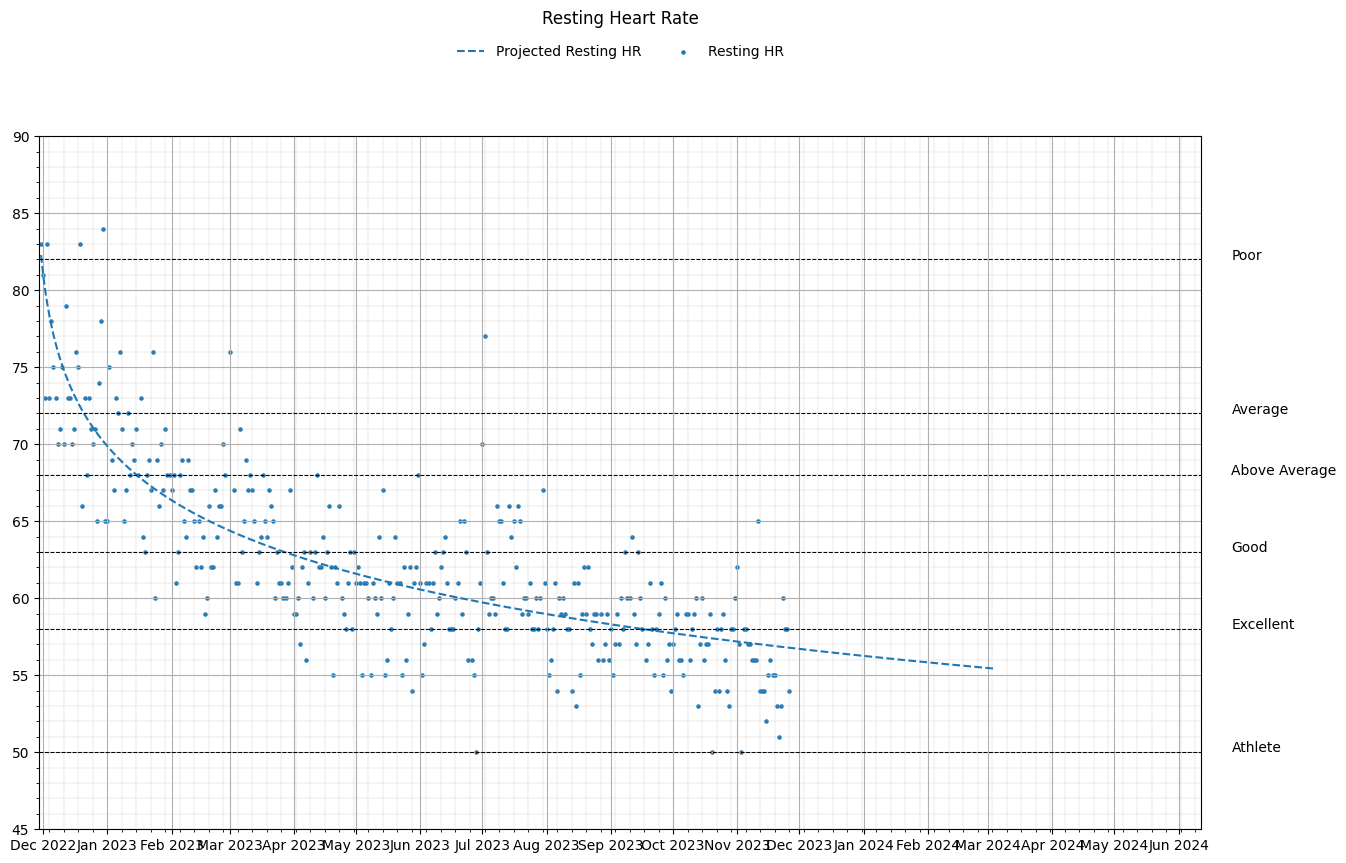
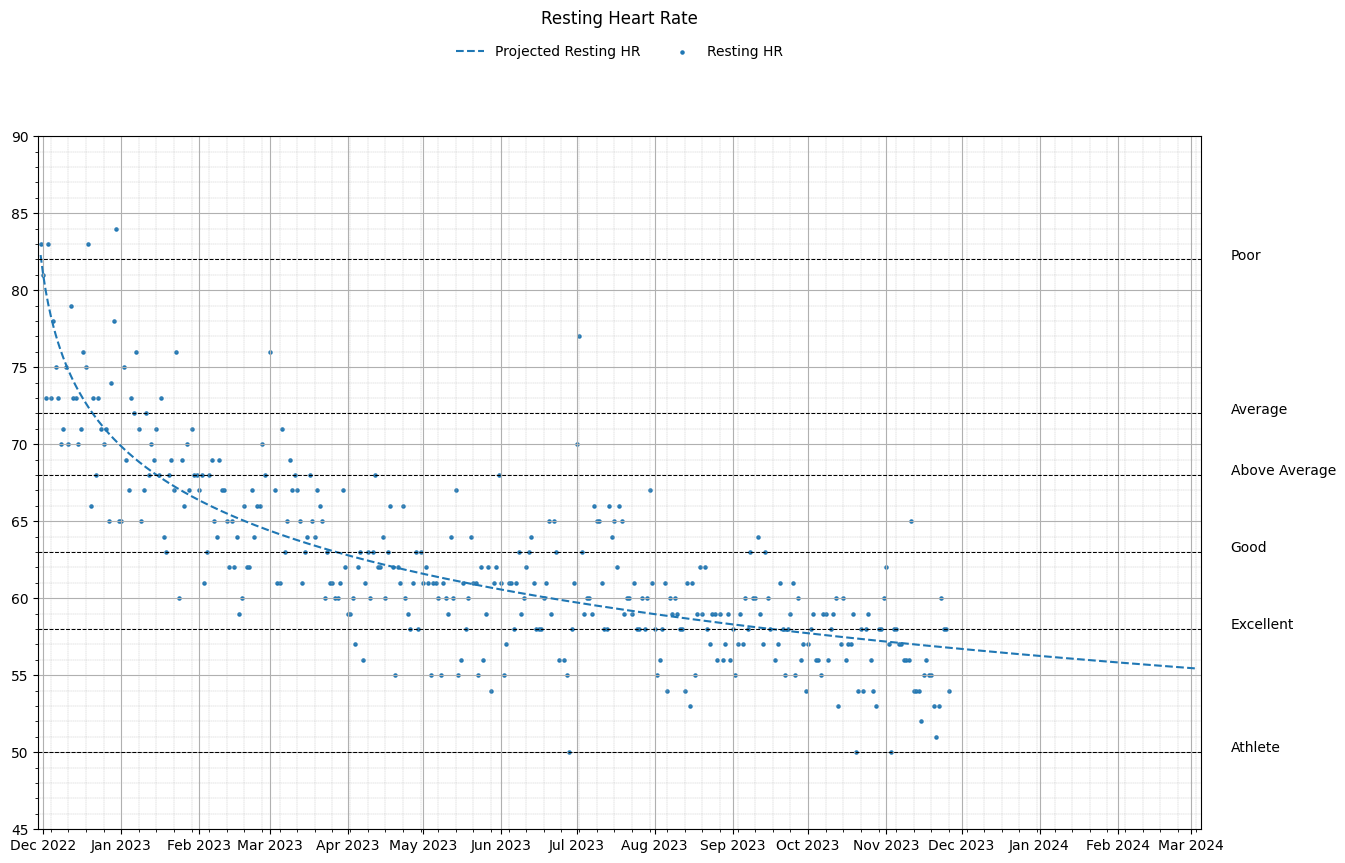
Fixed double-padding on heartrate plot

diff --git a/python/src/exercise_log/vis/__init__.py b/python/src/exercise_log/vis/__init__.py
@@ -10,7 +10,7 @@ from exercise_log.constants import MIN_DAILY_ACTIVE_MINUTES
 from exercise_log.dataloader import ColumnName
 from exercise_log.strength import SetRating, SetType
 from exercise_log.strength.ontology import ExerciseInfo
-from exercise_log.utils import convert_mins_to_hour_mins, convert_pd_to_np, get_padded_dates
+from exercise_log.utils import convert_mins_to_hour_mins, convert_pd_to_np
 from exercise_log.vis.constants import BOTTOM_OFFSET, NON_GRAPH_AREA_SCALER, RIGHT_OF_AXIS_X_COORD
 from exercise_log.vis.utils import configure_x_axis_by_month, create_legend_and_title
 
@@ -83,14 +83,12 @@ def plot_workout_frequency(
 def plot_resting_heart_rate(
     health_metrics: np.ndarray,
     heart_rate_trendline: np.ndarray,
-    n_days_to_extrapolate: int,
     export_dir: Optional[str] = None,
     show_plot=True,
 ):  # pylint: disable=too-many-arguments
     y_min, y_max = 45, 90
 
     nonnull_heart_rates = health_metrics[health_metrics[ColumnName.RESTING_HEART_RATE].notnull()]
-    padded_dates = get_padded_dates(nonnull_heart_rates, n_days_to_extrapolate)
     plt.scatter(
         nonnull_heart_rates[ColumnName.DATE].to_numpy(),
         nonnull_heart_rates[ColumnName.RESTING_HEART_RATE].to_numpy(),
@@ -98,7 +96,7 @@ def plot_resting_heart_rate(
         label="Resting HR",
     )
     plt.plot(
-        padded_dates.to_numpy(),
+        heart_rate_trendline[ColumnName.DATE],
         heart_rate_trendline[ColumnName.RESTING_HEART_RATE],
         linestyle="--",
         label="Projected Resting HR",
@@ -113,7 +111,7 @@ def plot_resting_heart_rate(
 
     # Set up axes
     ax = plt.gca()
-    configure_x_axis_by_month(heart_rate_trendline, end_padding_days=n_days_to_extrapolate)
+    configure_x_axis_by_month(heart_rate_trendline)
     ax.yaxis.set_minor_locator(ticker.MultipleLocator(1))
     ax.set_ylim([y_min, y_max])
     plt.grid(visible=True)
@@ -134,14 +132,12 @@ def plot_resting_heart_rate(
 def plot_weight(
     health_metrics: pd.DataFrame,
     weight_trendline: np.ndarray,
-    n_days_to_extrapolate: int,
     export_dir: Optional[str] = None,
     show_plot=True,
 ):
     y_min, y_max = 180, 305
 
     nonnull_weights = health_metrics[health_metrics[ColumnName.WEIGHT].notnull()]
-    padded_dates = get_padded_dates(nonnull_weights, n_days_to_extrapolate)
     plt.scatter(
         nonnull_weights[ColumnName.DATE].to_numpy(),
         nonnull_weights[ColumnName.WEIGHT].to_numpy(),
@@ -149,7 +145,7 @@ def plot_weight(
         label="Weight",
     )
     plt.plot(
-        padded_dates.to_numpy(),
+        weight_trendline[ColumnName.DATE],
         weight_trendline[ColumnName.WEIGHT],
         linestyle="--",
         label="Projected Weight",
@@ -164,7 +160,7 @@ def plot_weight(
 
     # Set up axes
     ax = plt.gca()
-    configure_x_axis_by_month(nonnull_weights, end_padding_days=n_days_to_extrapolate)
+    configure_x_axis_by_month(weight_trendline)
     ax.yaxis.set_minor_locator(ticker.MultipleLocator(5))
     ax.set_ylim([y_min, y_max])
     plt.grid(visible=True)

diff --git a/python/src/exercise_log/run_updater.py b/python/src/exercise_log/run_updater.py
@@ -1,5 +1,4 @@
 from datetime import date
-from typing import List
 
 import pandas as pd
 
@@ -53,11 +52,12 @@ class HealthTrends:
         """
         if self._workout_durations is None:
             data = Trendsetter.compute_n_sample_avg(self.all_workouts, CName.DURATION, N_DAYS_TO_AVG)
-            self._workout_durations = pd.DataFrame({
+            column_dict = {
                 CName.DATE: self.all_workouts[CName.DATE],
                 CName.AVG_DURATION: data,
                 CName.DURATION: self.all_workouts[CName.DURATION],
-            })
+            }
+            self._workout_durations = pd.DataFrame(column_dict)
         return self._workout_durations
 
     def get_weight_trendline(self):
@@ -65,10 +65,7 @@ class HealthTrends:
         if self._weight_trendline is None:
             cname = CName.WEIGHT
             data = Trendsetter.get_line_of_best_fit(self.health_metrics, cname, EXTRAPOLATE_DAYS)
-            self._weight_trendline = pd.DataFrame({
-                CName.DATE: self.get_padded_dates(cname),
-                cname: data,
-            })
+            self._weight_trendline = pd.DataFrame({CName.DATE: self.get_padded_dates(cname), cname: data})
         return self._weight_trendline
 
     def get_heart_rate_trendline(self):
@@ -76,10 +73,7 @@ class HealthTrends:
         if self._heart_rate_trendline is None:
             cname = CName.RESTING_HEART_RATE
             data = Trendsetter.get_logarithmic_curve_of_best_fit(self.health_metrics, cname, EXTRAPOLATE_DAYS)
-            self._heart_rate_trendline = pd.DataFrame({
-                CName.DATE: self.get_padded_dates(cname),
-                cname: data,
-            })
+            self._heart_rate_trendline = pd.DataFrame({CName.DATE: self.get_padded_dates(cname), cname: data})
         return self._heart_rate_trendline
 
     def get_padded_dates(self, c_name: ColumnName):
@@ -93,7 +87,6 @@ class HealthTrends:
             data.to_csv(f"{PREDS_DIR}/{fname}", index=False)
         else:
             TermColour.print_error(f"Data not saved to: {str(fname)}, it was missing.")
-
 
     def save_predictions(self):
         """Save all available predictions to disk."""
@@ -112,14 +105,12 @@ def build_health_visuals(health_trends: HealthTrends):
     plot_resting_heart_rate(
         health_trends.health_metrics,
         health_trends.get_heart_rate_trendline(),
-        EXTRAPOLATE_DAYS,
         export_dir=ROOT_IMG_DIR,
         show_plot=False,
     )
     plot_weight(
         health_trends.health_metrics,
         health_trends.get_weight_trendline(),
-        EXTRAPOLATE_DAYS,
         export_dir=ROOT_IMG_DIR,
         show_plot=False,
     )
